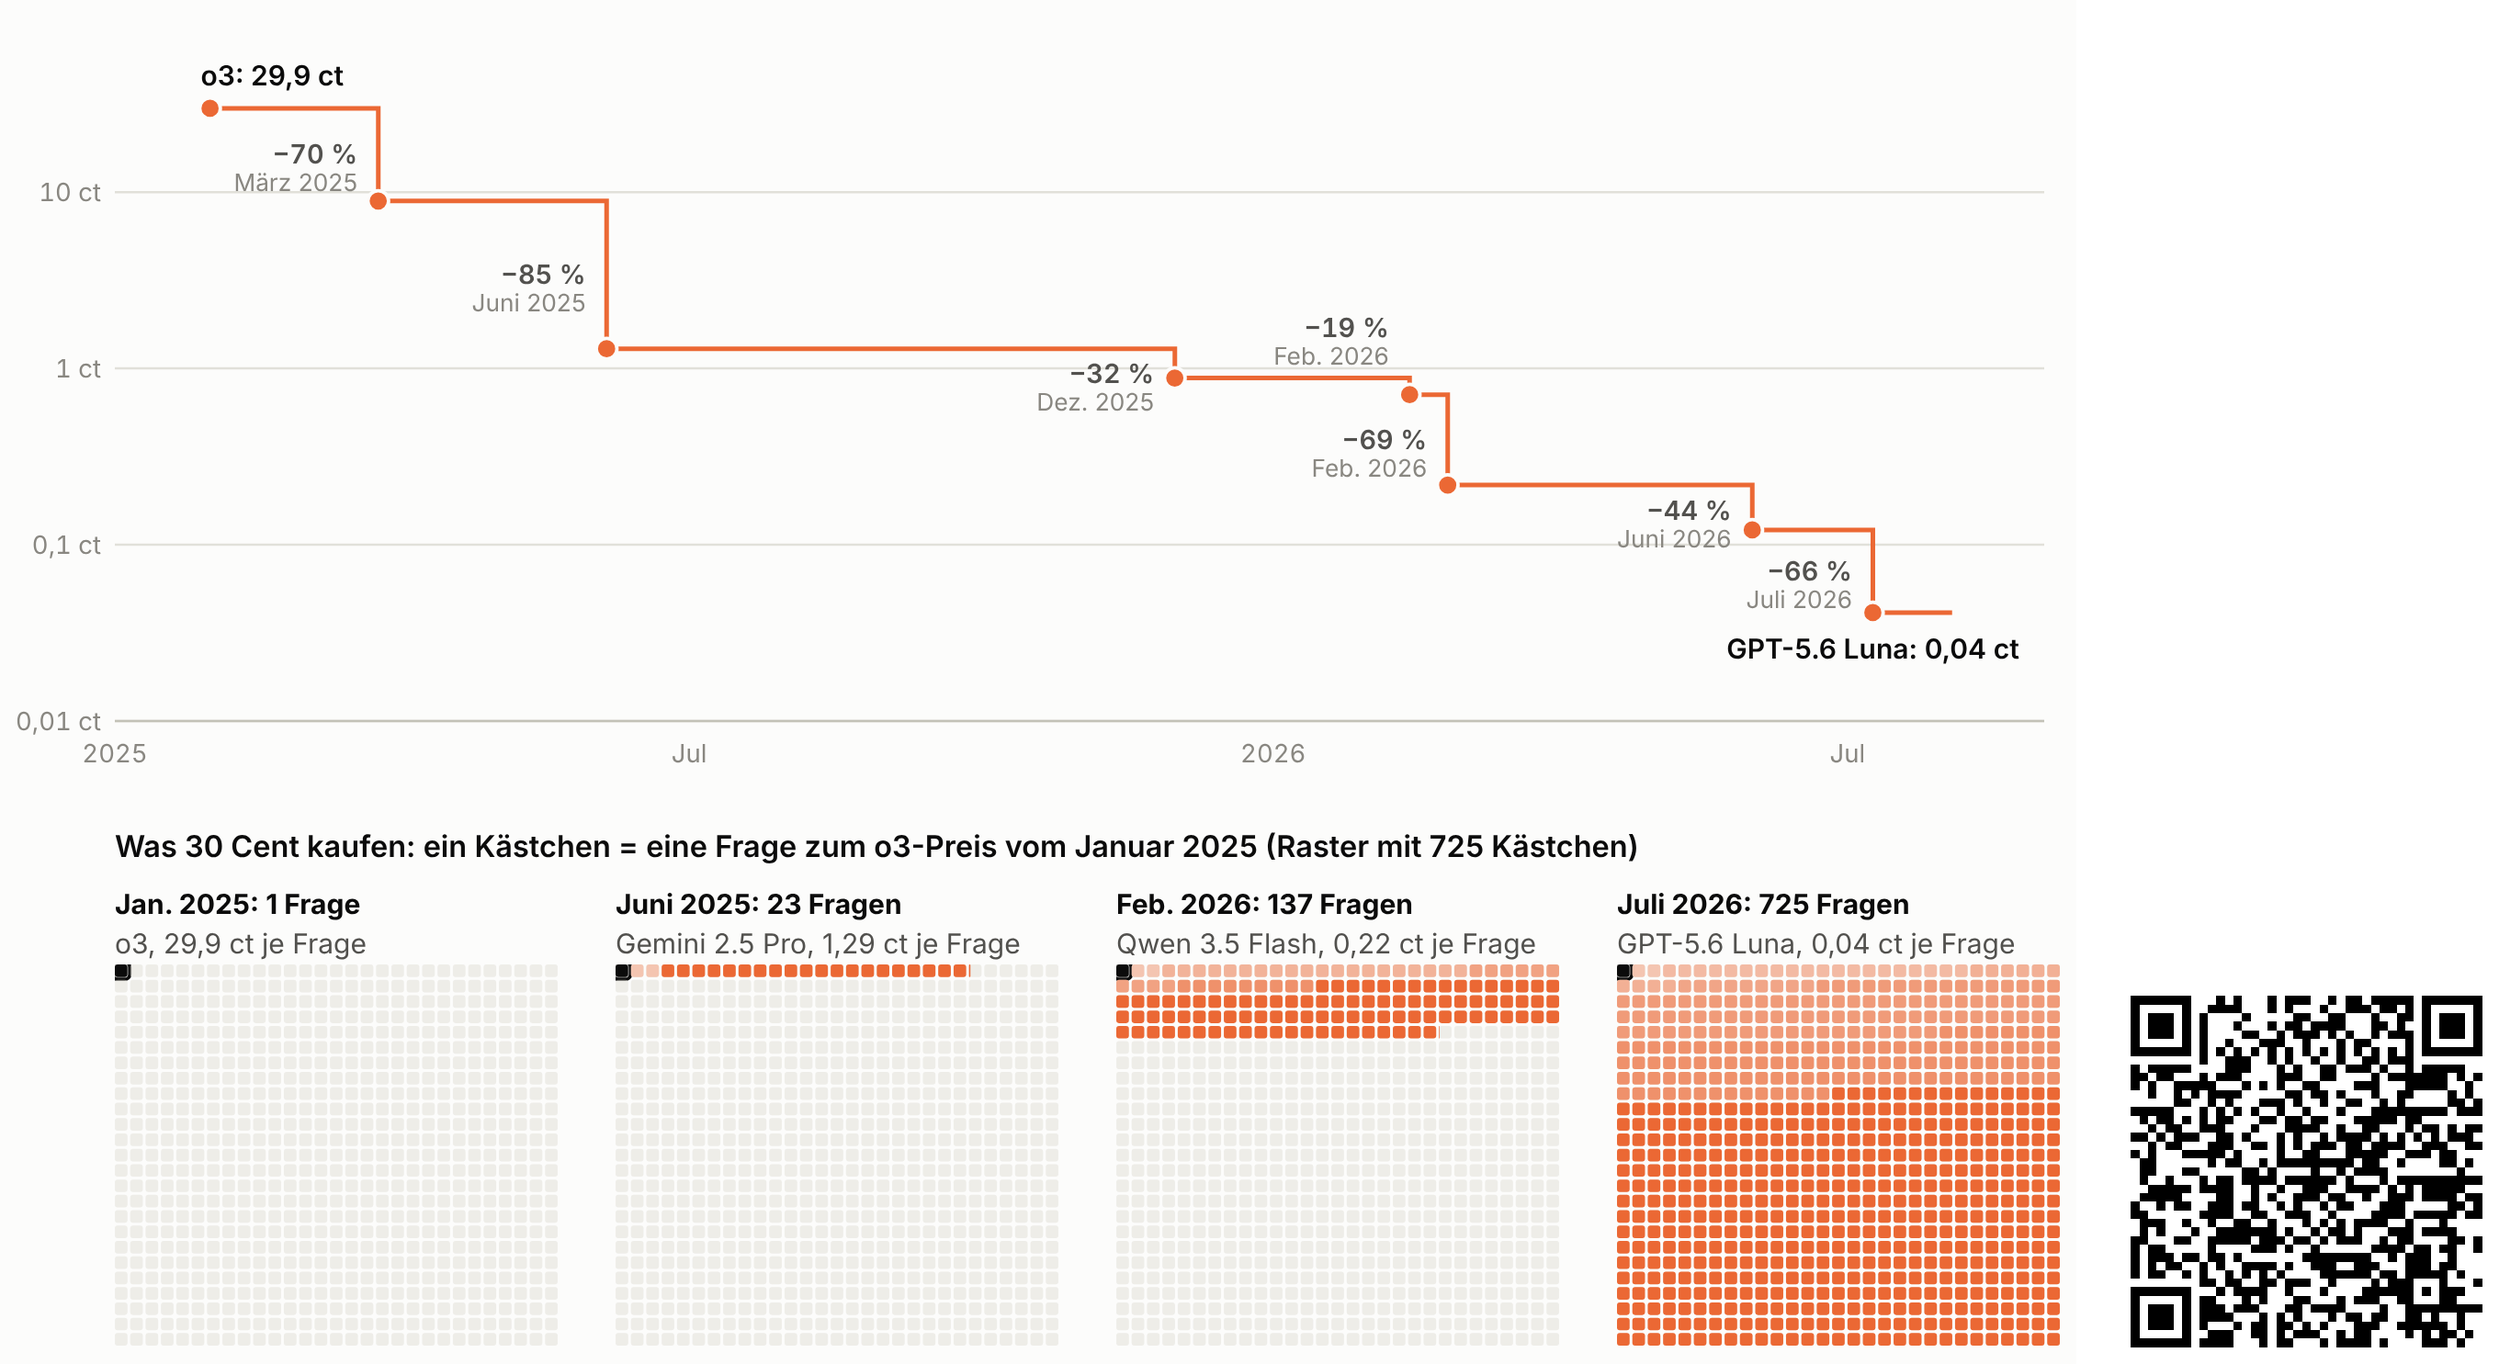
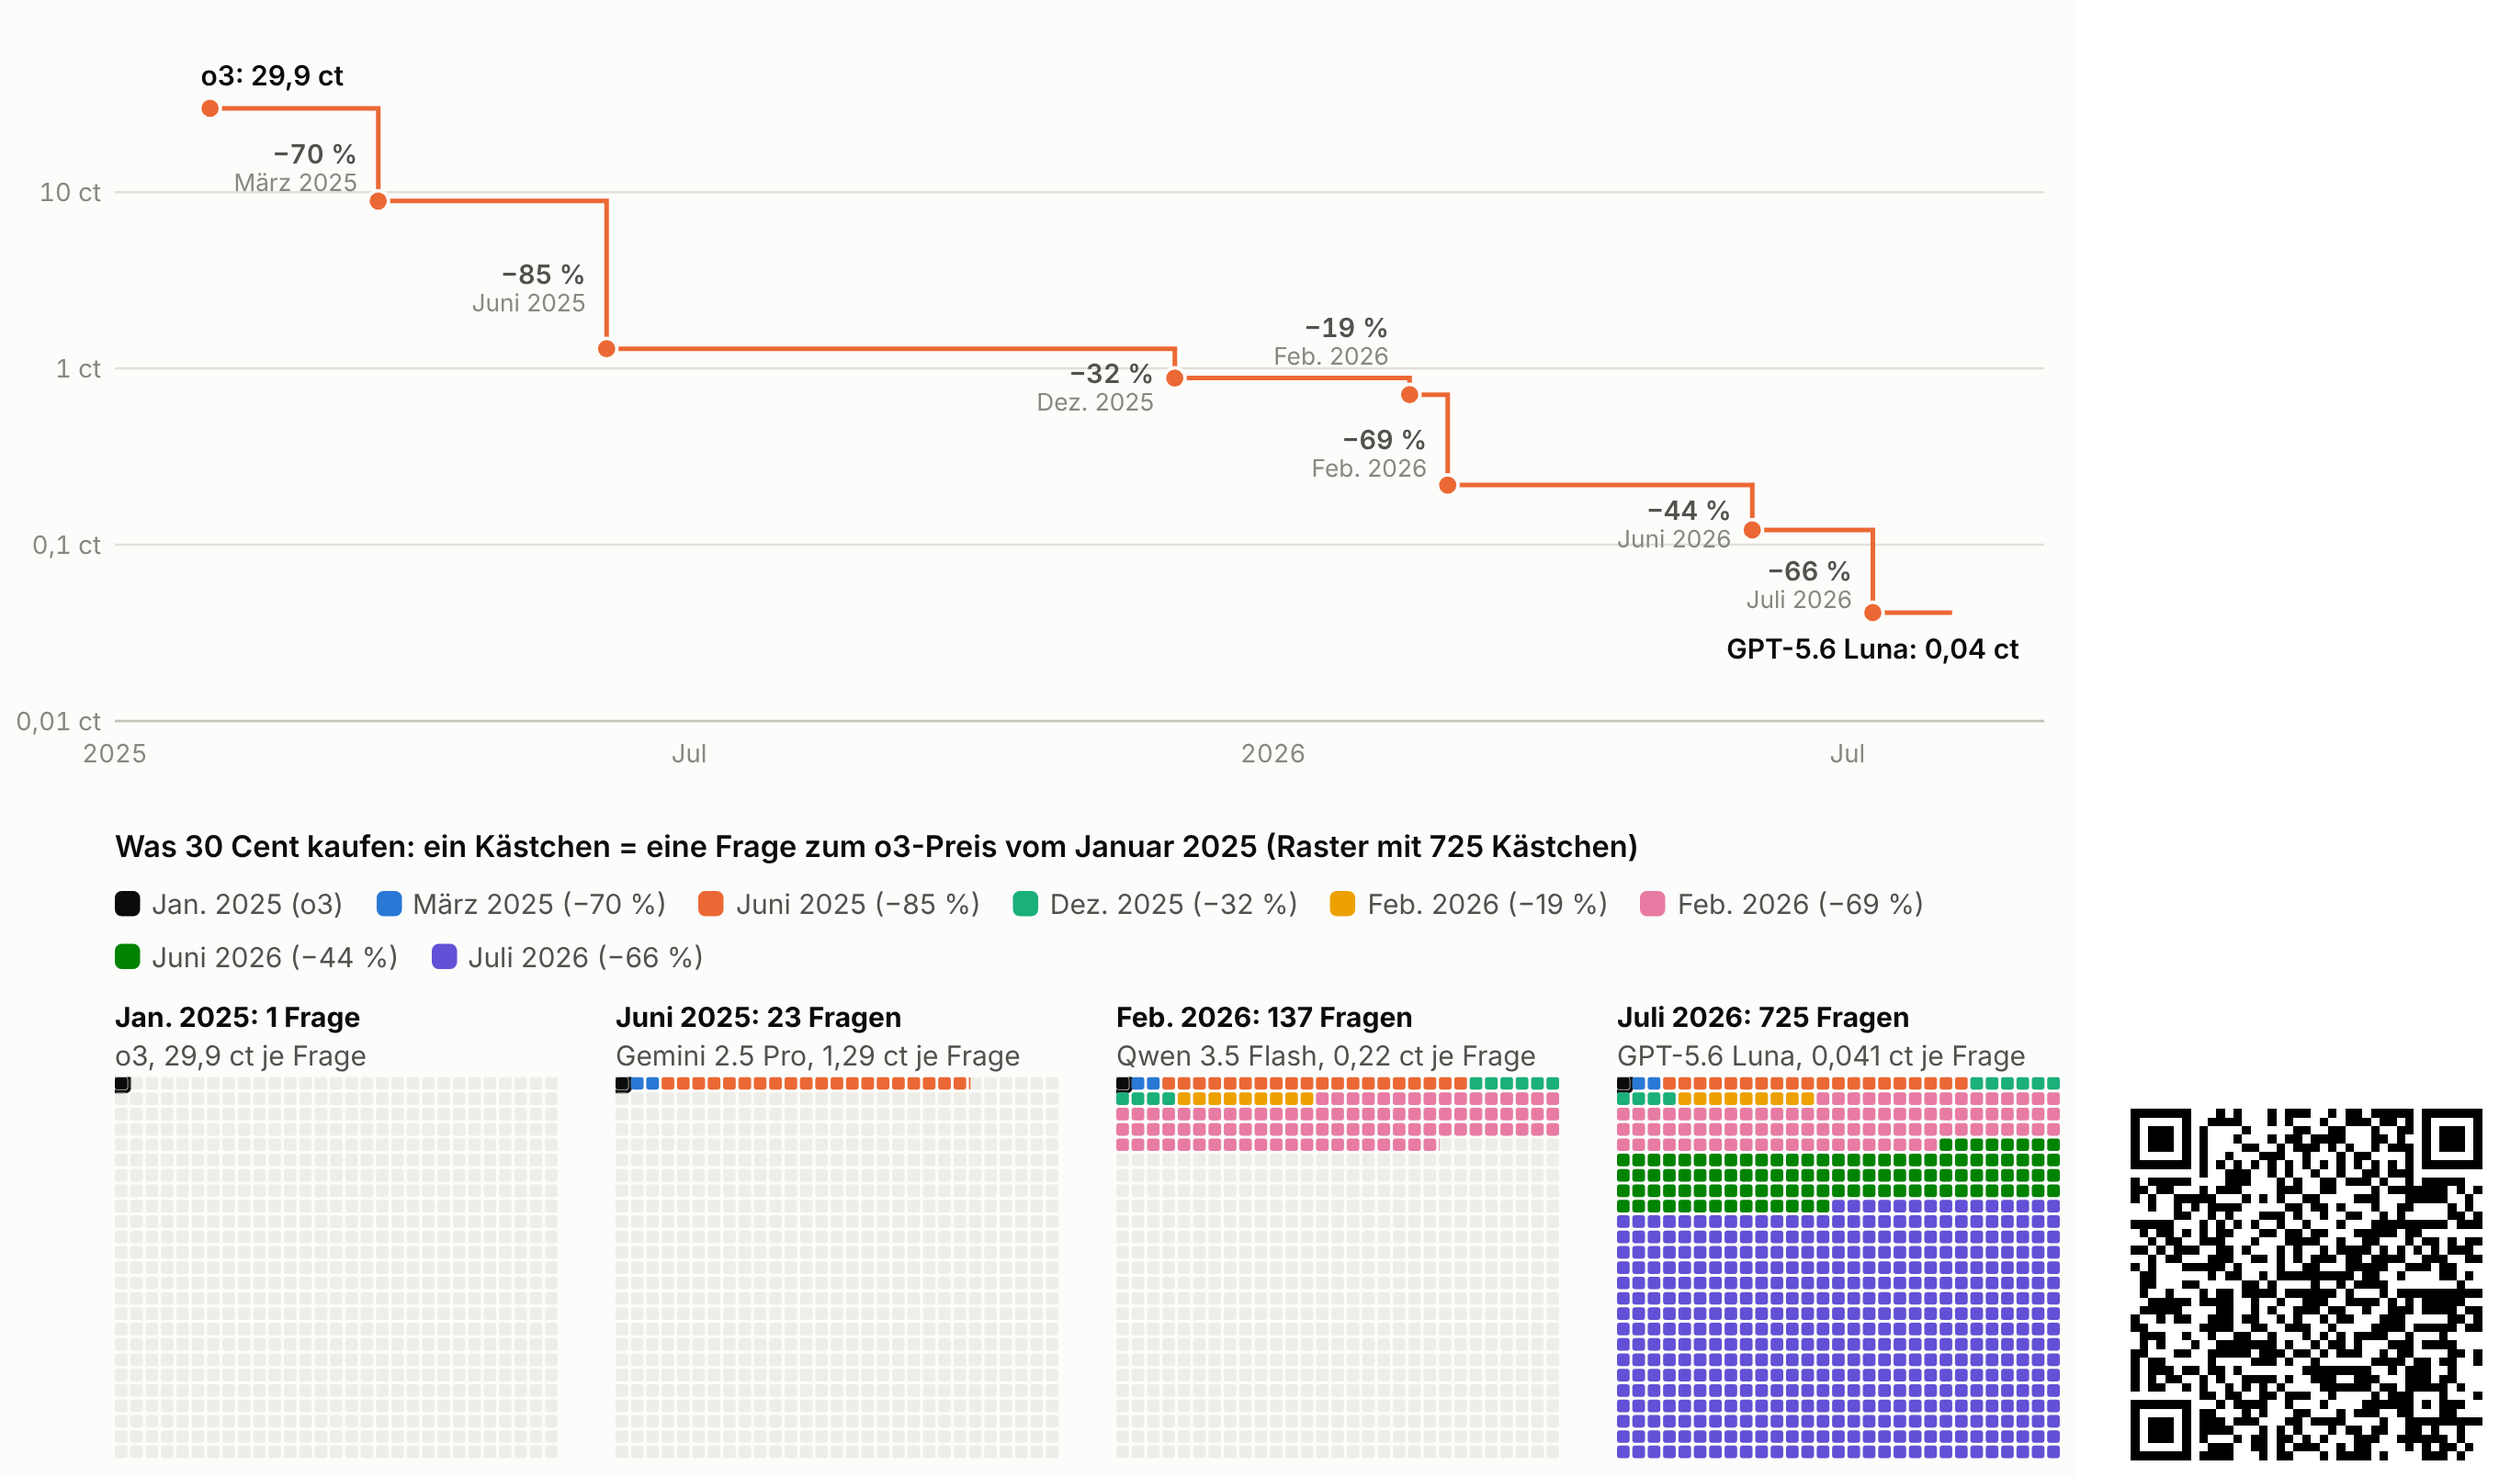
Kosten-Raster: eigene Farbe je Preisstufe, Preis je Frage als Großzahl, Kästchen-Hinweis in die Fußnote
Sieben kategoriale Stufenfarben (blau, orange, türkis, gelb, rosa, grün, violett; o3 dunkel),
fest je Stufe statt Helligkeitsabstufung; auf Farbfehlsichtigkeit geprüft (hell und dunkel).
Info-Spalte: groß 'Preis je Frage' in ct mit Farbfeld der Stufe, darunter Modell, Rückgang,
'30 Cent kaufen N Fragen'. 'Ein Kästchen = …' steht jetzt in der Quellenzeile. Zeitstrahl-Linie
neutral. Druck: Farbschlüssel mit Monat und Rückgang über den vier kleinen Rastern;
Bildunterschrift in Kapitel 2 um einen Satz zu den Farben ergänzt.

Claude-Session: https://claude.ai/code/session_01NiJQCU1THBZpEjr77Rug63

diff --git a/interactions/ki-entwicklung.html b/interactions/ki-entwicklung.html
@@ -5,8 +5,8 @@
 <meta name="viewport" content="width=device-width, initial-scale=1">
 <title>Wie sich KI entwickelt: Zeithorizont, Kosten und Arbeitsweisen</title>
 <style>
-.viz-root{color-scheme:light;--plane:#f9f9f7;--surface-1:#fcfcfb;--text-primary:#0b0b0b;--text-secondary:#52514e;--muted:#898781;--grid:#e1e0d9;--axis:#c3c2b7;--border:rgba(11,11,11,0.10);--series-1:#2a78d6;--series-2:#eb6834;--series-3:#1baf7a;--wash:rgba(11,11,11,0.035)}
-@media (prefers-color-scheme: dark){:root:where(:not([data-theme="light"]):not(.druck)) .viz-root{color-scheme:dark;--plane:#0d0d0d;--surface-1:#1a1a19;--text-primary:#f0efec;--text-secondary:#c3c2b7;--muted:#898781;--grid:#2c2c2a;--axis:#383835;--border:rgba(255,255,255,0.10);--series-1:#3987e5;--series-2:#d95926;--series-3:#199e70;--wash:rgba(255,255,255,0.04)}}
+.viz-root{color-scheme:light;--st1:#2a78d6;--st2:#eb6834;--st3:#1baf7a;--st4:#eda100;--st5:#e87ba4;--st6:#008300;--st7:#6250d6;--plane:#f9f9f7;--surface-1:#fcfcfb;--text-primary:#0b0b0b;--text-secondary:#52514e;--muted:#898781;--grid:#e1e0d9;--axis:#c3c2b7;--border:rgba(11,11,11,0.10);--series-1:#2a78d6;--series-2:#eb6834;--series-3:#1baf7a;--wash:rgba(11,11,11,0.035)}
+@media (prefers-color-scheme: dark){:root:where(:not([data-theme="light"]):not(.druck)) .viz-root{color-scheme:dark;--st1:#3987e5;--st2:#d95926;--st3:#199e70;--st4:#c98500;--st5:#d55181;--st6:#008300;--st7:#9085e9;--plane:#0d0d0d;--surface-1:#1a1a19;--text-primary:#f0efec;--text-secondary:#c3c2b7;--muted:#898781;--grid:#2c2c2a;--axis:#383835;--border:rgba(255,255,255,0.10);--series-1:#3987e5;--series-2:#d95926;--series-3:#199e70;--wash:rgba(255,255,255,0.04)}}
 *{box-sizing:border-box}body{margin:0}
 .viz-root{font-family:system-ui,-apple-system,"Segoe UI",sans-serif;background:var(--plane);color:var(--text-primary);padding:16px 12px 24px;line-height:1.45}
 main{max-width:920px;margin:0 auto}
@@ -69,7 +69,7 @@ table{border-collapse:collapse;width:100%;margin-top:6px}th,td{text-align:left;p
 .rwrap{display:grid;grid-template-columns:minmax(200px,290px) 1fr;gap:12px 22px;align-items:start}
 @media (max-width:599px){.rwrap{grid-template-columns:1fr}}
 .rinfo .k{color:var(--text-secondary);font-size:.85rem}
-.rinfo .big{font-size:3rem;font-weight:750;line-height:1.05;font-variant-numeric:tabular-nums;color:var(--series-2)}
+.rinfo .big{font-size:3rem;font-weight:750;line-height:1.05;font-variant-numeric:tabular-nums;color:var(--text-primary);display:flex;align-items:baseline;gap:8px}.rinfo .sw-big{display:inline-block;width:.42em;height:.42em;border-radius:4px;align-self:center}
 .rinfo .big small{font-size:1rem;font-weight:500;color:var(--text-secondary);margin-left:6px}
 .rinfo .s{color:var(--text-secondary);font-size:.85rem;margin-top:4px}
 .rinfo .o3{margin-top:14px;padding-top:8px;border-top:1px solid var(--grid);font-size:.8rem;color:var(--text-secondary)}
@@ -81,7 +81,7 @@ table{border-collapse:collapse;width:100%;margin-top:6px}th,td{text-align:left;p
 .druck #druck2r{display:block;margin-top:14px}
 .druck #ansicht-raster,.druck .seg{display:none !important}
 .druck #ansicht-treppe{display:block !important}
-.dr-titel{font-size:13px;font-weight:600;margin:0 0 6px 50px}
+.dr-titel{font-size:13px;font-weight:600;margin:0 0 6px 50px}#druck2r .dr-leg{margin:0 0 8px 50px;font-size:12px;color:var(--text-secondary)}
 .dr-reihe{display:grid;grid-template-columns:repeat(4,1fr);gap:18px;margin-left:50px}
 .dr-reihe .h{font-size:12px;font-weight:650}.dr-reihe .h span{font-weight:400;color:var(--text-secondary)}
 /* Diagramm 3: Arbeitsweisen */
@@ -151,7 +151,7 @@ footer{font-size:.72rem;color:var(--muted)}footer p{margin:0 0 3px;padding-left:
  <div id="k2bild"><div class="chart" id="c2"><div class="tip" id="tip2"></div></div><div id="druck2r"></div></div>
  <div class="now" id="now2" aria-live="polite"></div>
 </div>
-<p class="src">Daten: Epoch AI (Emberson &amp; Roodman, 2026), Abb. 2; API-Preise. Rasterdarstellung nach einer Idee von Mollick (2026), eigene Umsetzung.</p>
+<p class="src">Daten: Epoch AI (Emberson &amp; Roodman, 2026), Abb. 2; API-Preise. Rasterdarstellung nach einer Idee von Mollick (2026), eigene Umsetzung. Ein Kästchen = eine Frage zum Preis von o3 im Januar 2025 (29,9 ct); das Raster fasst 725 Kästchen. Jede Preisstufe hat eine eigene Farbe, dieselbe wie ihr Punkt im Zeitstrahl.</p>
 <details><summary>Datentabelle</summary><table id="t2"><thead><tr><th>Modell</th><th>Datum</th><th class="num">Genauigkeit</th><th class="num">Kosten/Frage</th></tr></thead><tbody></tbody></table></details>
 </section>
 
@@ -273,7 +273,8 @@ const E=EPOCH.map(r=>({...r,t:D(r.d)}));
 E.forEach((r,i)=>{r.fall=i?1-r.c/E[i-1].c:null;r.faktor=E[0].c/r.c;});
 const kurz=n=>n.replace(/ \(.*\)$/,'');
 const fPct=x=>'−'+Math.round(x*100)+'\u00a0%';
-const fCt=c=>c.toLocaleString('de-DE',c<1?{maximumFractionDigits:2}:{maximumSignificantDigits:3})+' ct';
+const fCtGross=c=>c.toLocaleString('de-DE',{maximumSignificantDigits:c<1?2:3});
+const fCt=c=>c.toLocaleString('de-DE',c<0.1?{maximumSignificantDigits:2}:c<1?{maximumFractionDigits:2}:{maximumSignificantDigits:3})+' ct';
 // Faktor ab 10 abgerundet, damit die Endstufe wie in der Überschrift 725 zeigt (29,8906 / 0,0412 = 725,5)
 const fFak=f=>f<10?f.toLocaleString('de-DE',{maximumFractionDigits:1}):Math.floor(f).toLocaleString('de-DE');
 const druck=document.documentElement.classList.contains('druck');
@@ -344,8 +345,10 @@ const VOLL=NQ.map(n=>Math.floor(n+1e-9));
 const fN=n=>n<10?n.toLocaleString('de-DE',{maximumFractionDigits:1}):Math.floor(n).toLocaleString('de-DE');
 const hex2=h=>{h=h.replace('#','');if(h.length===3)h=[...h].map(c=>c+c).join('');return[0,2,4].map(i=>parseInt(h.slice(i,i+2),16));};
 const mix=(a,b,w)=>{const A=hex2(a),B=hex2(b);return'rgb('+A.map((v,i)=>Math.round(v*w+B[i]*(1-w))).join(',')+')';};
-// Farbe je Stufe: o3 dunkel, frühere Stufen helle Töne (älter = heller), die gezeigte Stufe voll
-function farben(s){const f=[css('--text-primary')];for(let t=1;t<=s;t++)f.push(t===s?css('--series-2'):mix(css('--series-2'),css('--plane'),0.36+0.36*(t-1)/Math.max(1,s-2)));return f;}
+// Farbe je Stufe, fest und unabhängig von der gezeigten Stufe (Farbe folgt der Stufe, nicht dem Rang):
+// o3 dunkel, danach sieben kategoriale Farben in fester Reihenfolge (Palette der dataviz-Vorlage,
+// geprüft auf Farbfehlsichtigkeit hell und dunkel). So zeigt die Fläche jeder Farbe, wie viel ein Schritt ausmachte.
+function farben(){return[css('--text-primary'),...[1,2,3,4,5,6,7].map(i=>css('--st'+i))];}
 // Kästchen k ist voll ab der ersten Stufe t mit VOLL[t] > k; anteilig in Stufe s, wenn k === VOLL[s]
 function zeichneRaster(box,W,s,o={}){
   const cell=W/SP,gap=Math.max(1,cell*0.18),r=Math.min(3,cell*0.18),H=cell*ZE,F=farben(s);
@@ -416,7 +419,7 @@ function drawZeit(){
   const F=farben(Math.max(rSel,1)),X=i=>m.l+i*dx;
   // Linie: bis zur gezeigten Stufe kräftig, danach gestrichelt
   el('line',{x1:X(0),x2:X(LETZT),y1:y,y2:y,stroke:css('--grid'),'stroke-width':2,'stroke-dasharray':'4 4'},svg);
-  if(rSel>0)el('line',{x1:X(0),x2:X(rSel),y1:y,y2:y,stroke:css('--series-2'),'stroke-width':3},svg);
+  if(rSel>0)el('line',{x1:X(0),x2:X(rSel),y1:y,y2:y,stroke:css('--text-secondary'),'stroke-width':3},svg);
   const naechste=tipp!=null&&rSel===rBis&&rBis<LETZT?rBis+1:-1;
   E.forEach((r,i)=>{
     const auf=i<=rSel, akt=i===rSel, x=X(i);
@@ -441,9 +444,9 @@ function drawR(anim){
   zeichneRaster(box,W,rSel,{anim});
   drawZeit();
   const s=rSel,cur=E[s];
-  document.getElementById('rinfo').innerHTML=`<div class="k">30 Cent kaufen im ${fMon(cur.t)}</div><div class="big">${fN(NQ[s])}<small>${NQ[s]<1.5?'Frage':'Fragen'}</small></div>
-    <div class="s">${kurz(cur.n)} · ${fCt(cur.c)} je Frage${s?' · '+fPct(cur.fall)+' zur Vorstufe':''}</div>
-    <div class="o3">Ein Kästchen = eine Frage zum Preis von o3 im Januar 2025 (29,9 ct). Das Raster fasst ${NMAX} Kästchen; die Farben entsprechen den Punkten im Zeitstrahl.</div>`;
+  document.getElementById('rinfo').innerHTML=`<div class="k">Preis je Frage, ${fMon(cur.t)}</div><div class="big"><i class="sw-big" style="background:${farben()[s]}"></i>${fCtGross(cur.c)}<small>ct</small></div>
+    <div class="s">${kurz(cur.n)}${s?' · '+fPct(cur.fall)+' zur Vorstufe':''}</div>
+    <div class="s">30 Cent kaufen ${fN(NQ[s])} ${NQ[s]<1.5?'Frage':'Fragen'}</div>`;
   let txt;
   if(!s)txt=tipp==null?'':`<span class="ex">Ausgangspunkt: o3 ist das erste Modell mit 75 % richtigen Antworten</span>`;
   else{const neu=VOLL[s]-VOLL[s-1];
@@ -469,6 +472,9 @@ document.getElementById('v-treppe').onclick=()=>setAnsicht('treppe');
 // Druckfassung: vier kleine Raster unter der Treppe (Jan. 2025, Juni 2025, Feb. 2026, Juli 2026)
 function drawDruckR(){if(!druck)return;const box=document.getElementById('druck2r');box.innerHTML='';
   const t=document.createElement('div');t.className='dr-titel';t.textContent='Was 30 Cent kaufen: ein Kästchen = eine Frage zum o3-Preis vom Januar 2025 (Raster mit 725 Kästchen)';box.appendChild(t);
+  // Farbschlüssel: in der Druckfassung fehlt der Zeitstrahl, der online die Farben erklärt
+  const lg=document.createElement('div');lg.className='legend dr-leg';const Fd=farben();
+  lg.innerHTML=E.map((r,k)=>`<span><i class="sw" style="background:${Fd[k]}"></i>${fMon(r.t)}${k?' ('+fPct(r.fall)+')':' (o3)'}</span>`).join('');box.appendChild(lg);
   const reihe=document.createElement('div');reihe.className='dr-reihe';box.appendChild(reihe);
   const W=(Math.min(box.clientWidth||880,880)-50-3*18)/4;
   [0,2,5,7].forEach(s=>{const p=document.createElement('div');reihe.appendChild(p);
